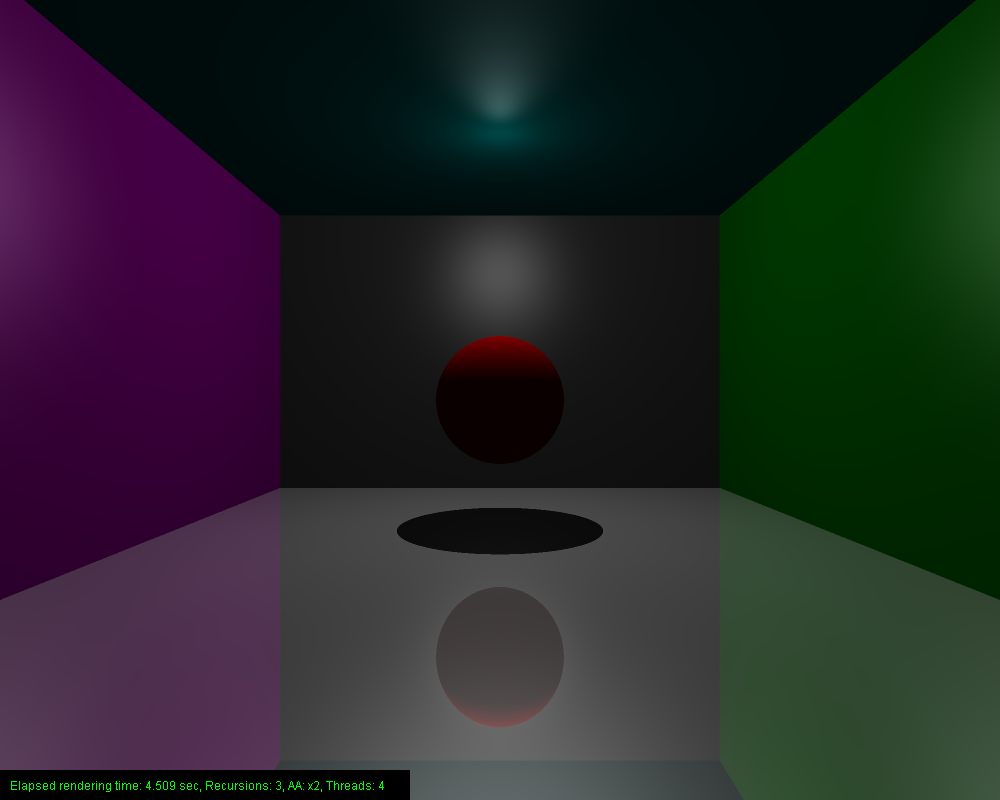
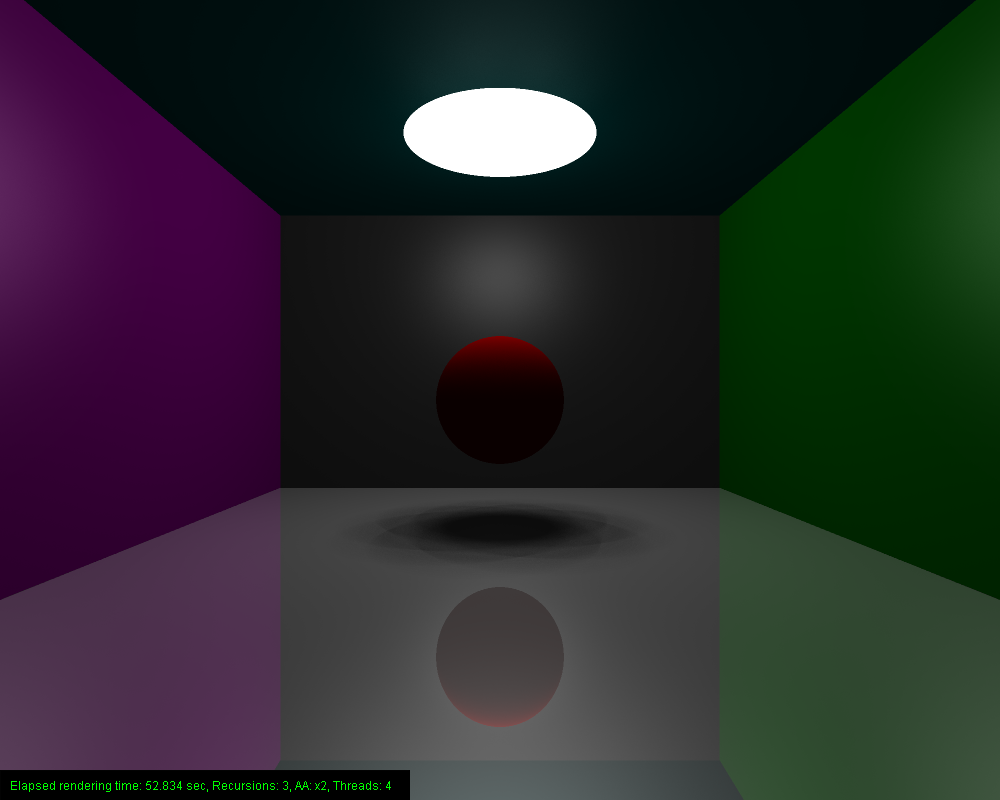
fixed circle area lights

diff --git a/VCG_Raytracer/src/scene/light/AreaLight.java b/VCG_Raytracer/src/scene/light/AreaLight.java
@@ -55,21 +55,29 @@ public class AreaLight {
         Log.print(this, "indIntens: " + individualIntensity);
 
         Vec3 ortho1 = circle.getNormal().getOrthogonal();
-        Vec3 ortho2 = circle.getNormal().cross(ortho1);
+        Vec3 ortho2 = circle.getNormal().cross(ortho1).normalize();
 
-        //angle
-        for (int x = 0; x < resolution.x; x++) {
+        Log.print(this, "normal: " + circle.getNormal());
+        Log.print(this, "ortho1: " + ortho1);
+        Log.print(this, "ortho2: " + ortho2);
 
-            float angle = (float) (x * Math.PI * 2 / resolution.x);
 
-            //radius
-            for (int y = 0; y < resolution.y; y++) {
-                float radius = (float) Math.sqrt(y / resolution.y) * 2;
+        //radius
+        for (int y = 0; y < resolution.y; y++) {
 
-                Vec2 normPos = getNormalizedPosition(resolution, radius * (float) Math.cos(angle), radius * (float) Math.sin(angle));
+            float radius = (float) Math.sqrt((y + 1) / resolution.y);
 
-                Log.print(this, "light norm pos: " + normPos);
+            //angle
+            for (int x = 0; x < resolution.x; x++) {
 
+                float angle = (float) (x * Math.PI * 2 / resolution.x);
+//                Vec2 normPos = getNormalizedPosition(resolution, radius * (float) Math.cos(angle), radius * (float) Math.sin(angle));
+
+
+                Vec2 normPos = new Vec2(radius * (float) Math.cos(angle), radius * (float) Math.sin(angle));
+
+//                Log.print(this, "radius: " + radius);
+//                Log.print(this, "light norm pos: " + normPos);
 
                 Vec3 position = norm2WorldRect(center, ortho1, ortho2, normPos, diameter, diameter);
 
@@ -77,13 +85,8 @@ public class AreaLight {
             }
         }
 
-
         sampleAmount = (int) (sampleLights.size() * sample);
-
-        Log.print(this, "samples: " + sampleAmount);
-
     }
-
 
     private float getIndividualIntensity(Vec2 resolution, float intensity) {
         return intensity / (resolution.x * resolution.y * sample);

diff --git a/VCG_Raytracer/src/utils/algebra/Vec3.java b/VCG_Raytracer/src/utils/algebra/Vec3.java
@@ -128,24 +128,26 @@ public class Vec3 {
      */
     public Vec3 getOrthogonal() {
 
-        float xN = Math.abs(x), yN = Math.abs(y), zN = Math.abs(z);
+//        float xN = Math.abs(x), yN = Math.abs(y), zN = Math.abs(z);
+//
+//        //project plane to axis-planes
+//        if (xN >= yN && xN >= zN) {
+//            //x is biggest normal component
+//            return new Vec3(0, z, -y).normalize();
+//
+//        } else if (yN >= xN && yN >= zN) {
+//            //y is biggest normal component
+//            return new Vec3(z, 0, -x).normalize();
+//
+//        } else if (zN >= xN && zN >= yN) {
+//            //z is biggest normal component
+//            return new Vec3(y, -x, 0).normalize();
+//
+//        }
+//        return null;
 
-        //project plane to axis-planes
-        if (xN >= yN && xN >= zN) {
-            //x is biggest normal component
-            return new Vec3(0, z, -y).normalize();
+        return cross(new Vec3(3 + x* 0.5f, -1 + y * -1.5f,  5 + z * 0.3f)).normalize();
 
-        } else if (yN >= xN && yN >= zN) {
-            //y is biggest normal component
-            return new Vec3(z, 0, -x).normalize();
-
-        } else if (zN >= xN && zN >= yN) {
-            //z is biggest normal component
-            return new Vec3(y, -x, 0).normalize();
-
-        }
-
-        return null;
     }
 
     /**

diff --git a/VCG_Raytracer/src/Main/Main.java b/VCG_Raytracer/src/Main/Main.java
@@ -379,7 +379,7 @@ public class Main {
                         new Circle(
                                 new Vec3(0, 4.10f, 8),    //pos
                                 new Vec3(0, -1, 0),     //normal
-                                2f,
+                                1.5f,
                                 new Lambert(RgbColor.WHITE,        //ambient
                                         RgbColor.WHITE,          //diffuse
                                         RgbColor.WHITE,          //emission
@@ -389,9 +389,9 @@ public class Main {
                                         1)),
                         0.5f,
                         0.9f,
-                        new Vec2(6, 3),
-                        0.7f),
-                false);
+                        new Vec2(8, 8),
+                        .8f),
+                true);
     }
 
     private static int getAntiAliasingLevel() {

diff --git a/VCG_Raytracer/src/scene/camera/Camera.java b/VCG_Raytracer/src/scene/camera/Camera.java
@@ -19,16 +19,16 @@ public class Camera extends SceneObject {
         super(pos);
 
         this.lookAt = lookAt;
-        this.upVector = upVector;
+        this.upVector = upVector.normalize();
         this.viewAngle = viewAngle;
         this.focalLength = focalLength;
 
         calcCoordinates();
     }
 
-    public Vec3 calculateDestinationPoint(){
-        return new Vec3();
-    }
+//    public Vec3 calculateDestinationPoint(){
+//        return new Vec3();
+//    }
 
     private void calcCoordinates(){
         view = calcView();

diff --git a/VCG_Raytracer/src/material/Material.java b/VCG_Raytracer/src/material/Material.java
@@ -197,7 +197,7 @@ public abstract class Material {
 
 //        Vec3 orthogonalVec1 = new Vec3(0, dir.z, -dir.y).normalize();
         Vec3 orthogonalVec1 = dir.getOrthogonal();
-        Vec3 orthogonalVec2 = orthogonalVec1.cross(dir);
+        Vec3 orthogonalVec2 = orthogonalVec1.cross(dir).normalize();
 
         Random r = new Random();
 
